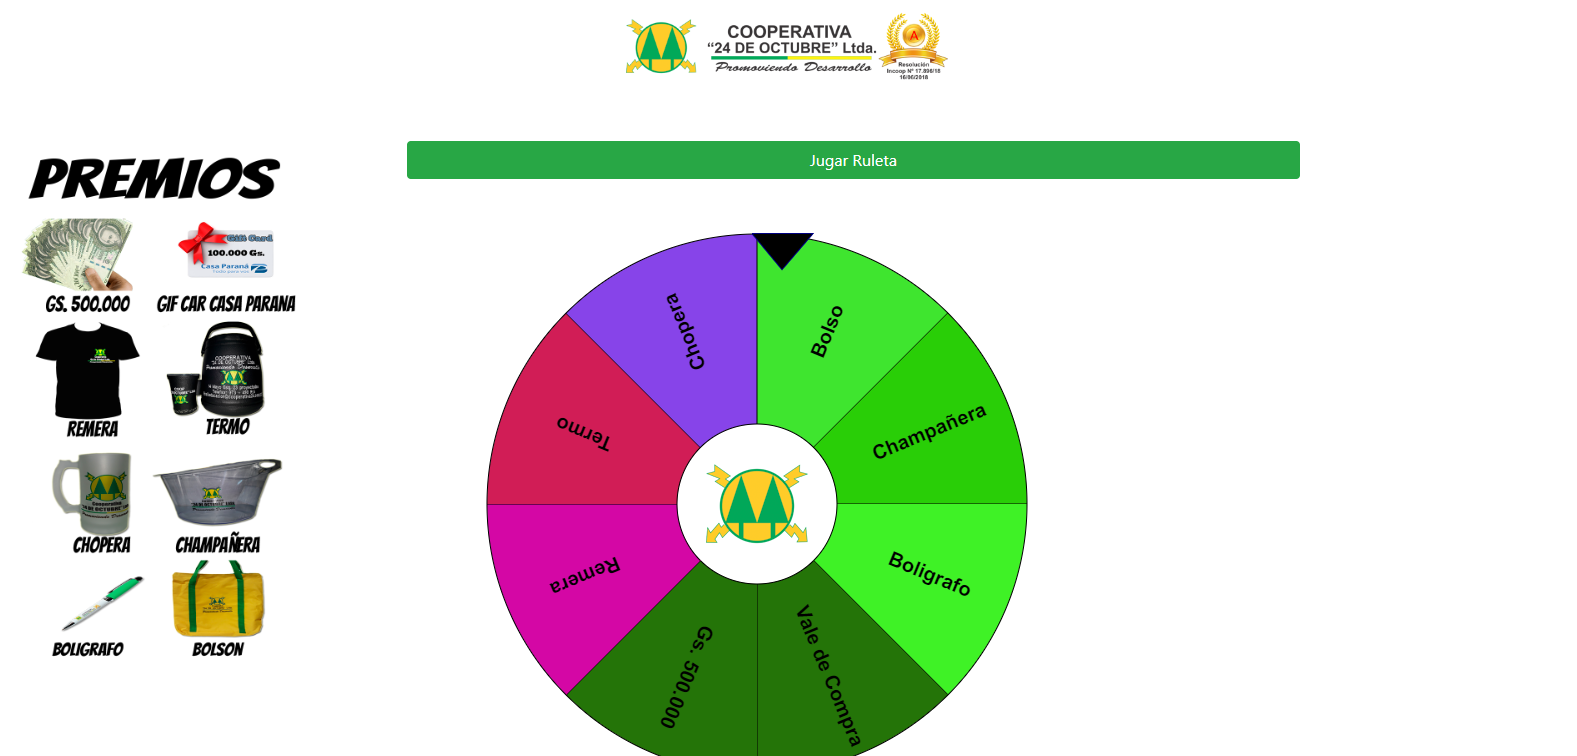
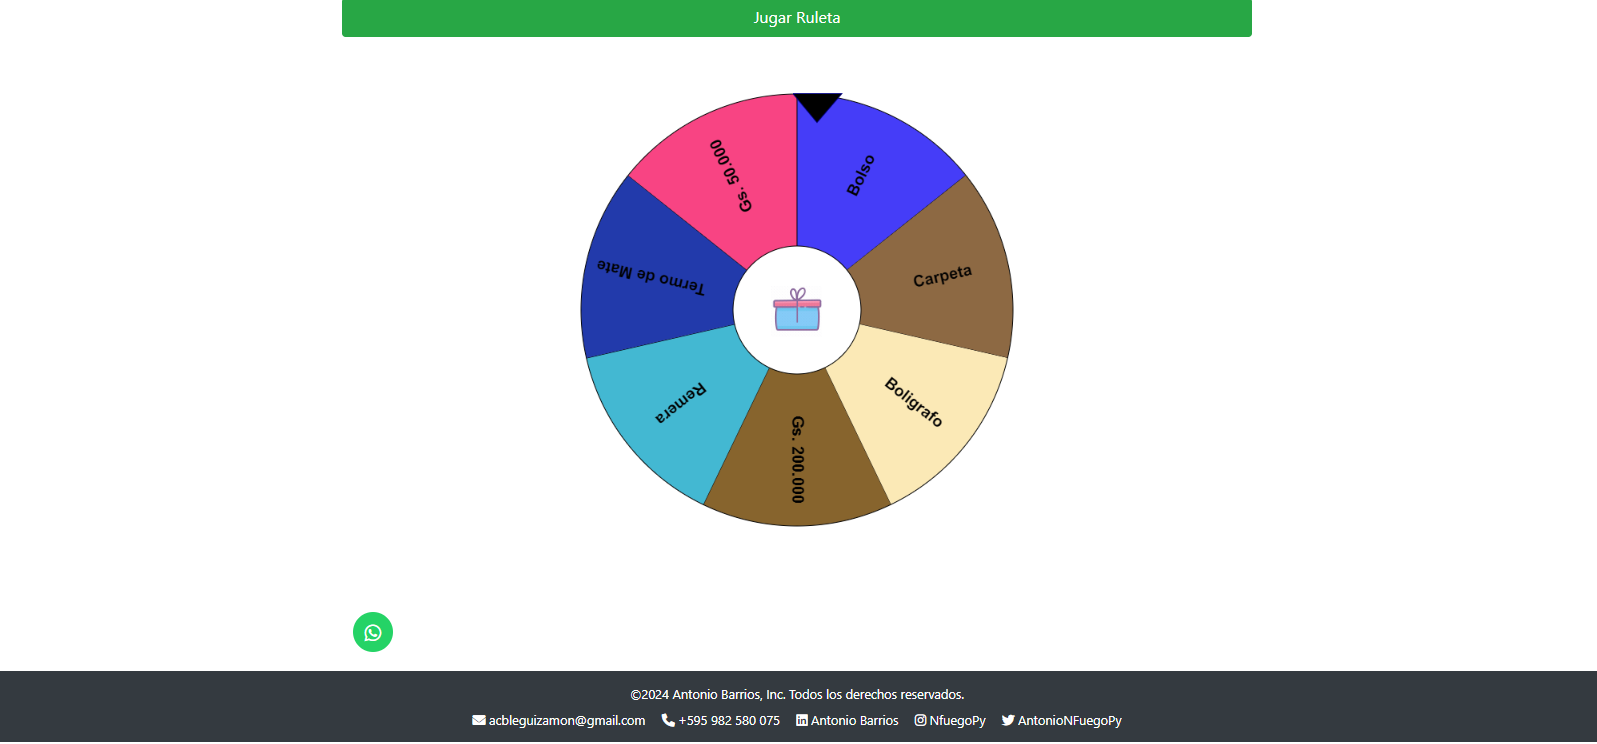
Se modifico el sistema para estructurar mejor la carpetas separamos el html del scrip y estilos para la pantalla, el script se agrego una condicion para condeterminar el resultado final de cada sorteo para evitar que salgan premios no deseados

diff --git a/index.html b/index.html
@@ -4,67 +4,19 @@
 <head runat="server">
     <meta name="viewport" content="width=device-width, initial-scale=1.0">
     <title>Ruleta de Sorteos</title>
-
     <!-- CSS -->
     <link rel="stylesheet" href="css/bootstrap.min.css">
     <link rel="stylesheet" href="css/sweetalert.css">
-
+    <link rel="stylesheet" href="css/custom_styles.css"> 
     <!-- JavaScript -->
     <script src="js/Winwheel.min.js"></script>
     <script src="js/TweenMax.min.js"></script>
     <script src="https://code.jquery.com/jquery-3.2.1.slim.min.js"></script>
     <script src="js/sweetalert.min.js"></script>
-
     <!-- Open Graph Meta Tags -->
     <meta property="og:url" content="https://github.com/nfuegopy/ruletavirtual">
     <meta property="og:type" content="article">
     <meta property="og:title" content="La ruleta (Rifa cosas)">
-
-    
-    <style>
-        #canvasContainer {
-            background-image: url('img/regalo.gif');
-            background-repeat: no-repeat;
-            background-position: center;
-            max-width: 100%;
-            height: auto;
-            cursor: pointer;
-            margin: 0 auto;
-        }
-
-        @media (max-width: 768px) {
-            #canvasContainer {
-                width: 100%;
-                height: auto;
-            }
-
-            canvas {
-                width: 100% !important;
-                height: auto !important;
-            }
-        }
-
-        .contact-button {
-            display: flex;
-            align-items: center;
-            justify-content: center;
-            background-color: #25D366;
-            color: white;
-            padding: 10px;
-            border-radius: 50%;
-            width: 50px;
-            height: 50px;
-            text-decoration: none;
-        }
-
-        .contact-button i {
-            font-size: 24px;
-        }
-
-        .footer-contact {
-            margin-top: 10px;
-        }
-    </style>
 </head>
 
 <body>
@@ -105,92 +57,7 @@ Gs. 50.000
             </div>
         </div>
 
-        <script>
-            var objRuleta;
-            var winningSegment;
-            var distnaciaX = 150;
-            var distnaciaY = 50;
-            var ctx;
-
-            function Mensaje() {
-                winningSegment = objRuleta.getIndicatedSegment();
-                SonidoFinal();
-                swal({
-                    title: " ¡Ganaste " + winningSegment.text + " !",
-                    imageUrl: "img/Muerte.png",
-                    showCancelButton: true,
-                    confirmButtonColor: "#e74c3c",
-                    confirmButtonText: "Reiniciar",
-                    cancelButtonText: "Continuar",
-                    closeOnConfirm: true,
-                    closeOnCancel: true
-                },
-                function (isConfirm) {
-                    if (isConfirm) {
-
-                    } else {
-                        leerElementos();
-                    }
-                    objRuleta.stopAnimation(false);
-                    objRuleta.rotationAngle = 0;
-                    objRuleta.draw();
-                    DibujarTriangulo();
-                    bigButton.disabled = false;
-                });
-            }
-
-            function DibujarTriangulo() {
-                ctx = objRuleta.ctx;
-                ctx.strokeStyle = 'navy';
-                ctx.fillStyle = '#000000';
-                ctx.lineWidth = 2;
-                ctx.beginPath();
-                ctx.moveTo(distnaciaX + 170, distnaciaY + 5);
-                ctx.lineTo(distnaciaX + 230, distnaciaY + 5);
-                ctx.lineTo(distnaciaX + 200, distnaciaY + 40);
-                ctx.lineTo(distnaciaX + 171, distnaciaY + 5);
-                ctx.stroke();
-                ctx.fill();
-            }
-
-            function DibujarRuleta(ArregloElementos) {
-                objRuleta = new Winwheel({
-                    'canvasId': 'Ruleta',
-                    'numSegments': ArregloElementos.length,
-                    'outerRadius': 270,
-                    'innerRadius': 80,
-                    'segments': ArregloElementos,
-                    'animation': {
-                        'type': 'spinToStop',
-                        'duration': 4,
-                        'spins': 20,
-                        'callbackFinished': 'Mensaje()',
-                        'callbackAfter': 'DibujarTriangulo()'
-                    },
-                });
-                DibujarTriangulo();
-            }
-
-            function leerElementos() {
-                var txtListaElementos = $('#ListaElementos').val().trim();
-                var Elementos = txtListaElementos.split('\n');
-                var ElementosRuleta = [];
-                Elementos.forEach(function (Elemento) {
-                    if (Elemento) {
-                        ElementosRuleta.push({ 'fillStyle': "#" + ((1 << 24) * Math.random() | 0).toString(16), 'text': Elemento });
-                    }
-                });
-                DibujarRuleta(ElementosRuleta);
-            }
-            leerElementos();
-
-            var audio = new Audio('alama.mp3');  // Create audio object and load desired file.
-            function SonidoFinal() {
-                audio.pause();
-                audio.currentTime = 0;
-                audio.play();
-            }
-        </script>
+       
     </form>
 
     <div class="container text-center mt-4 mb-4">
@@ -222,7 +89,8 @@ Gs. 50.000
             </div>
         </div>
     </footer>
-    
+    <script src="js/roulette.js"></script>
+
     <!-- Font Awesome CDN -->
     <link rel="stylesheet" href="https://cdnjs.cloudflare.com/ajax/libs/font-awesome/6.0.0-beta3/css/all.min.css">
     

diff --git a/js/roulette.js b/js/roulette.js
@@ -1,0 +1,101 @@
+var objRuleta;
+var winningSegment;
+var distnaciaX = 150;
+var distnaciaY = 50;
+var ctx;
+
+function Mensaje() {
+    winningSegment = objRuleta.getIndicatedSegment();
+    SonidoFinal();
+    swal({
+        title: " ¡Ganaste " + winningSegment.text + " !",
+        imageUrl: "img/Muerte.gif",
+        showCancelButton: true,
+        confirmButtonColor: "#e74c3c",
+        confirmButtonText: "Reiniciar",
+        cancelButtonText: "Continuar",
+        closeOnConfirm: true,
+        closeOnCancel: true
+    },
+    function (isConfirm) {
+        if (isConfirm) {
+
+        } else {
+            leerElementos();
+        }
+        objRuleta.stopAnimation(false);
+        objRuleta.rotationAngle = 0;
+        objRuleta.draw();
+        DibujarTriangulo();
+        bigButton.disabled = false;
+    });
+}
+
+function DibujarTriangulo() {
+    ctx = objRuleta.ctx;
+    ctx.strokeStyle = 'navy';
+    ctx.fillStyle = '#000000';
+    ctx.lineWidth = 2;
+    ctx.beginPath();
+    ctx.moveTo(distnaciaX + 170, distnaciaY + 5);
+    ctx.lineTo(distnaciaX + 230, distnaciaY + 5);
+    ctx.lineTo(distnaciaX + 200, distnaciaY + 40);
+    ctx.lineTo(distnaciaX + 171, distnaciaY + 5);
+    ctx.stroke();
+    ctx.fill();
+}
+
+function DibujarRuleta(ArregloElementos) {
+    objRuleta = new Winwheel({
+        'canvasId': 'Ruleta',
+        'numSegments': ArregloElementos.length,
+        'outerRadius': 270,
+        'innerRadius': 80,
+        'segments': ArregloElementos,
+        'animation': {
+            'type': 'spinToStop',
+            'duration': 4,
+            'spins': 20,
+            'callbackFinished': 'Mensaje()',
+            'callbackAfter': 'DibujarTriangulo()'
+        },
+    });
+    DibujarTriangulo();
+}
+
+function leerElementos() {
+    var txtListaElementos = $('#ListaElementos').val().trim();
+    var Elementos = txtListaElementos.split('\n');
+    var ElementosRuleta = [];
+    Elementos.forEach(function (Elemento) {
+        var cantidad = 3;  // Ajusta la cantidad base para todos los elementos
+        if (Elemento === "Gs. 200.000" || Elemento === "Gs. 50.000") {
+            cantidad = 1;  // Reduce la cantidad para estos premios específicos
+        }
+        for (var i = 0; i < cantidad; i++) {
+            ElementosRuleta.push({ 'fillStyle': "#" + ((1 << 24) * Math.random() | 0).toString(16), 'text': Elemento });
+        }
+    });
+
+    mezclarElementosRuleta(ElementosRuleta);  // Mezclar los elementos antes de dibujar la ruleta
+    DibujarRuleta(ElementosRuleta);
+}
+
+function mezclarElementosRuleta(array) {
+    for (var i = array.length - 1; i > 0; i--) {
+        var j = Math.floor(Math.random() * (i + 1));
+        var temp = array[i];
+        array[i] = array[j];
+        array[j] = temp;
+    }
+}
+
+leerElementos();
+
+
+var audio = new Audio('alama.mp3');  // Create audio object and load desired file.
+function SonidoFinal() {
+    audio.pause();
+    audio.currentTime = 0;
+    audio.play();
+}

diff --git a/css/custom_styles.css b/css/custom_styles.css
@@ -1,0 +1,42 @@
+#canvasContainer {
+    background-image: url('../img/regalo.gif');
+    background-repeat: no-repeat;
+    background-position: center;
+    max-width: 100%;
+    height: auto;
+    cursor: pointer;
+    margin: 0 auto;
+}
+
+@media (max-width: 768px) {
+    #canvasContainer {
+        width: 100%;
+        height: auto;
+    }
+
+    canvas {
+        width: 100% !important;
+        height: auto !important;
+    }
+}
+
+.contact-button {
+    display: flex;
+    align-items: center;
+    justify-content: center;
+    background-color: #25D366;
+    color: white;
+    padding: 10px;
+    border-radius: 50%;
+    width: 50px;
+    height: 50px;
+    text-decoration: none;
+}
+
+.contact-button i {
+    font-size: 24px;
+}
+
+.footer-contact {
+    margin-top: 10px;
+}
